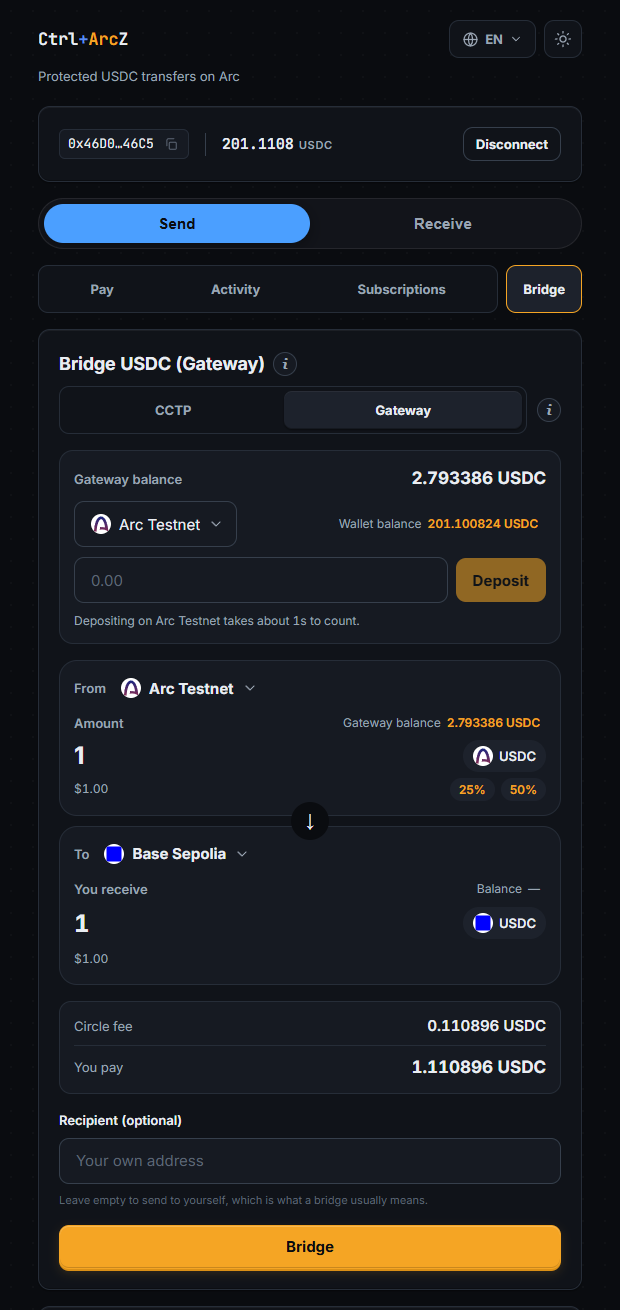
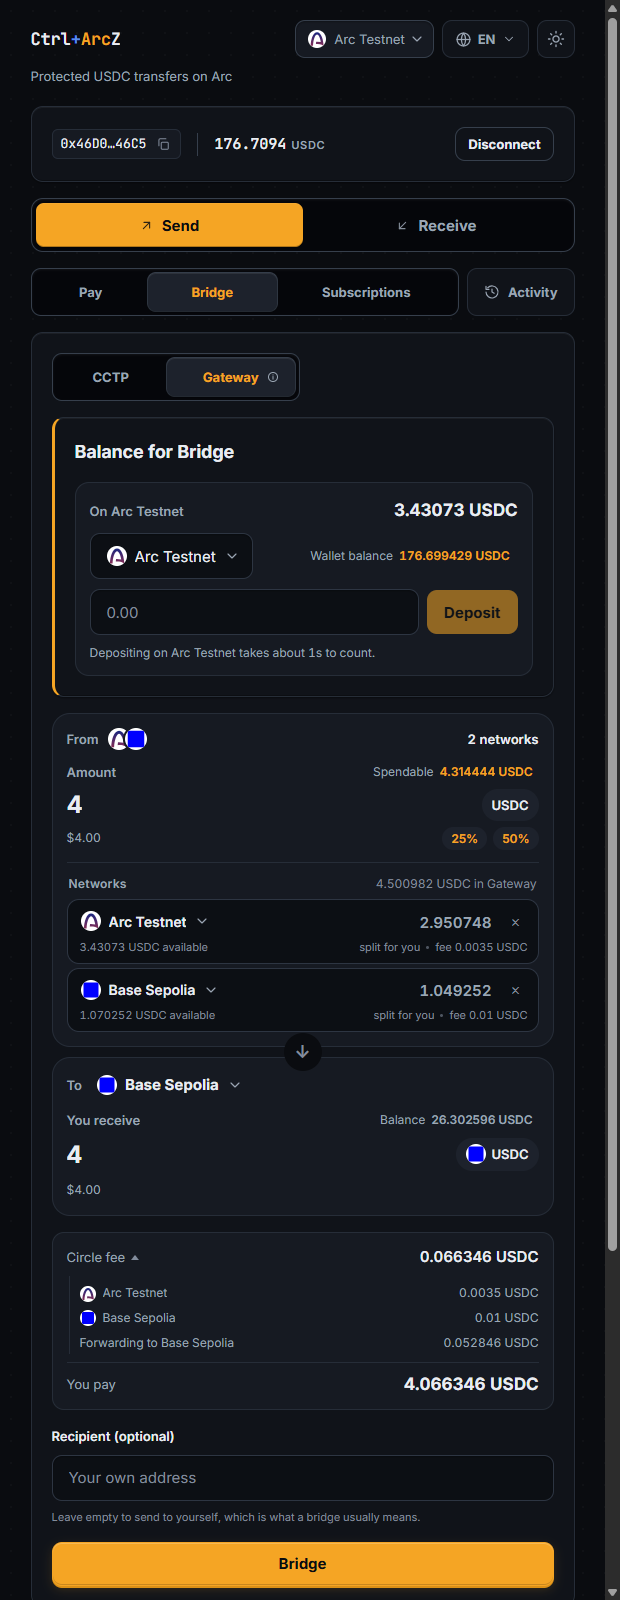
Say what the figures are counted in, and document the split
Every number in the network picker was bare. "3.068709 fee 0.0035" is two answers
to two different questions at the same weight with no unit on either, and a
per-chain fee is exactly where a reader expects to see the chain's gas token. It
is USDC, on every chain: Circle takes its fee out of the amount being sent rather
than out of gas, which is why a Gateway spend needs no gas anywhere and the
deposit is the only step that does. So the rows say USDC, the balance carries the
weight, and the fee steps back behind a hairline.

The README and the SDK guide never mentioned that a transfer can draw on more than
one chain, and their two Gateway screenshots predate the whole From block. Both
are replaced by shots of a real split: four USDC carried by two networks under one
signature, with the fee opened into what each network costs, and the picker
showing what is on every chain and what a leg there would cost.

The guide gains the allocate() path beside the single-chain shorthand, including
why its order is what it is and why fee and ceiling are two numbers rather than
one. Test counts in both READMEs were badly stale; they are measured now, at 850.

diff --git a/packages/demo-kit/src/ui/GatewaySources.tsx b/packages/demo-kit/src/ui/GatewaySources.tsx
@@ -181,7 +181,9 @@ export function GatewaySources({
       if (!r) return null;
       return (
         <>
-          <span>{usdc(r.balance)}</span>
+          <span className="chainrow__have">
+            {t('bridge.src.hasAmount', { amount: usdc(r.balance) })}
+          </span>
           <span className={`chainrow__tone chainrow__tone--${r.tone}`}>
             {r.room <= 0n
               ? t('bridge.src.tooSmall')
@@ -208,8 +210,27 @@ export function GatewaySources({
     const held = balanceOf(chain);
     return (
       <>
-        <span>{loaded ? usdc(held) : ''}</span>
-        <span className={feeOf(chain) >= COSTLY_BASE_FEE ? 'chainrow__fee--costly' : undefined}>
+        {/* What is there, and what a leg on it costs. Both name their unit and
+            they are separated, because side by side and unlabelled they read as
+            one number followed by another number: "3.068709 fee 0.0035" is two
+            answers to two different questions wearing the same clothes.
+
+            The fee is USDC on every chain, not the chain's own gas token: Circle
+            takes it out of the amount being sent, which is why a Gateway spend
+            needs no gas anywhere. Saying "USDC" is therefore a fact and not a
+            guess -- and the one worth stating, since a per-chain fee is exactly
+            where a reader would expect to see ETH. */}
+        <span className="chainrow__have">
+          {loaded ? t('bridge.src.hasAmount', { amount: usdc(held) }) : ''}
+        </span>
+        <span
+          className={[
+            'chainrow__fee',
+            feeOf(chain) >= COSTLY_BASE_FEE && 'chainrow__fee--costly',
+          ]
+            .filter(Boolean)
+            .join(' ')}
+        >
           {t('bridge.src.legFee', { fee: usdc(feeOf(chain)) })}
         </span>
       </>

diff --git a/packages/demo-kit/src/ui/components.css b/packages/demo-kit/src/ui/components.css
@@ -1097,10 +1097,32 @@
 .chainrow__meta {
   display: inline-flex;
   align-items: center;
-  gap: 8px;
+  gap: 10px;
   font-size: var(--fs-sm);
   color: var(--text-mid);
   white-space: nowrap;
+}
+/* Two answers to two questions, so they are told apart before they are read.
+
+   Unseparated and at one weight they ran together as a single string -- "3.068709
+   fee 0.0035" reads as one number trailing another, and neither said what it was
+   counted in. The balance is what the row is about, so it carries the weight and
+   the brighter tier; the fee is a consequence of picking it, so it steps back and
+   is fenced off by a hairline. */
+.chainrow__have {
+  color: var(--text-hi);
+  font-variant-numeric: tabular-nums;
+}
+.chainrow__fee,
+.chainrow__tone {
+  padding-left: 10px;
+  border-left: 1px solid var(--border-subtle);
+  font-size: var(--fs-xs);
+  font-variant-numeric: tabular-nums;
+}
+/* A disabled row is quiet all the way through, including the figures. */
+.menu__item:disabled .chainrow__have {
+  color: var(--text-mid);
 }
 /* A token that exists and cannot be picked. Muted rather than hidden, and the
    reason sits where its balance would have been. */

diff --git a/packages/demo-kit/src/i18n/tr.ts b/packages/demo-kit/src/i18n/tr.ts
@@ -296,8 +296,9 @@ export const tr: Record<TranslationKey, string> = {
   'bridge.src.spendable': 'Gönderilebilir',
   'bridge.src.count': '{n} ağ',
   'bridge.src.heldOn': "Gateway'de {amount} USDC",
-  'bridge.src.ready': '{amount} var',
-  'bridge.src.legFee': 'ücret {fee}',
+  'bridge.src.ready': '{amount} USDC var',
+  'bridge.src.legFee': 'ücret {fee} USDC',
+  'bridge.src.hasAmount': '{amount} USDC',
   'bridge.src.auto': 'senin için bölündü',
   'bridge.src.pinned': 'senin girdiğin',
   'bridge.src.legAria': '{chain} ağından gidecek tutar',
@@ -305,7 +306,7 @@ export const tr: Record<TranslationKey, string> = {
   'bridge.src.overfill': 'Ağların toplamı gönderdiğinden {amount} USDC fazla.',
   'bridge.src.costlyNote': 'Bacaklardan biri Ethereum üzerinden, tek başına yaklaşık 1 USDC ücret.',
   'bridge.src.add': 'Ağ ekle',
-  'bridge.src.totalFee': 'toplam ücret {fee}',
+  'bridge.src.totalFee': 'toplam ücret {fee} USDC',
   'bridge.src.stillShort': '{amount} eksik kalır',
   'bridge.src.tooSmall': 'kullanmak için çok az',
   'bridge.src.cover': 'Kalan {amount} {chain} ağından',

diff --git a/packages/demo-kit/src/i18n/en.ts b/packages/demo-kit/src/i18n/en.ts
@@ -337,8 +337,9 @@ export const en = {
   'bridge.src.spendable': 'Spendable',
   'bridge.src.count': '{n} networks',
   'bridge.src.heldOn': '{amount} USDC in Gateway',
-  'bridge.src.ready': '{amount} available',
-  'bridge.src.legFee': 'fee {fee}',
+  'bridge.src.ready': '{amount} USDC available',
+  'bridge.src.legFee': 'fee {fee} USDC',
+  'bridge.src.hasAmount': '{amount} USDC',
   'bridge.src.auto': 'split for you',
   'bridge.src.pinned': 'set by you',
   'bridge.src.legAria': 'Amount from {chain}',
@@ -348,7 +349,7 @@ export const en = {
   'bridge.src.add': 'Add a network',
   // Beside each network in the add list. The fee is the whole transfer's, not this
   // network's share: what somebody is choosing between is two complete plans.
-  'bridge.src.totalFee': '{fee} total fee',
+  'bridge.src.totalFee': '{fee} USDC total fee',
   'bridge.src.stillShort': '{amount} short',
   'bridge.src.tooSmall': 'too small to use',
   'bridge.src.cover': 'Take the other {amount} from {chain}',

diff --git a/README.tr.md b/README.tr.md
@@ -2,7 +2,7 @@
 
 **İmzalanmadan taranır. Claim edilene kadar geri alınabilir. Cüzdanını vermeden tekrarlanır.**
 
-[![Demoyu izle](https://img.shields.io/badge/Demoyu_izle-FF0000?style=flat-square&logo=youtube&logoColor=white)](https://www.youtube.com/watch?v=fcgyqBUbkcg) [![Canlı uygulama](https://img.shields.io/badge/Canl%C4%B1-ctrlarcz.xyz-4b9fff?style=flat-square)](https://ctrlarcz.xyz) [![npm](https://img.shields.io/badge/npm-%40ctrl--arcz%2Fsdk-cb3837?style=flat-square&logo=npm&logoColor=white)](https://www.npmjs.com/package/@ctrl-arcz/sdk) [![Android uygulaması](https://img.shields.io/badge/Android_uygulamas%C4%B1-Google_Play-3ddc84?style=flat-square&logo=googleplay&logoColor=white)](https://play.google.com/store/apps/details?id=com.xyz.ctrlarcz) [![Android demosunu izle](https://img.shields.io/badge/Android_demosunu_izle-FF0000?style=flat-square&logo=youtube&logoColor=white)](https://www.youtube.com/watch?v=DnSkbgBZaM8) [![Dokümanlar](https://img.shields.io/badge/Dok%C3%BCmanlar-docs.ctrlarcz.xyz-8b93a1?style=flat-square)](https://docs.ctrlarcz.xyz) [![Arc Testnet](https://img.shields.io/badge/Arc_Testnet-5042002-2fbf71?style=flat-square)](https://testnet.arcscan.app/address/0x8dAb7148cdc31DAcad6d7e12161AA3DEDb572Dca) [![Testler](https://img.shields.io/badge/test-654_ge%C3%A7iyor-2fbf71?style=flat-square)](#teknoloji) [![Emanet](https://img.shields.io/badge/emanet-yok-8b93a1?style=flat-square)](#g%C3%BCvenlik)
+[![Demoyu izle](https://img.shields.io/badge/Demoyu_izle-FF0000?style=flat-square&logo=youtube&logoColor=white)](https://www.youtube.com/watch?v=fcgyqBUbkcg) [![Canlı uygulama](https://img.shields.io/badge/Canl%C4%B1-ctrlarcz.xyz-4b9fff?style=flat-square)](https://ctrlarcz.xyz) [![npm](https://img.shields.io/badge/npm-%40ctrl--arcz%2Fsdk-cb3837?style=flat-square&logo=npm&logoColor=white)](https://www.npmjs.com/package/@ctrl-arcz/sdk) [![Android uygulaması](https://img.shields.io/badge/Android_uygulamas%C4%B1-Google_Play-3ddc84?style=flat-square&logo=googleplay&logoColor=white)](https://play.google.com/store/apps/details?id=com.xyz.ctrlarcz) [![Android demosunu izle](https://img.shields.io/badge/Android_demosunu_izle-FF0000?style=flat-square&logo=youtube&logoColor=white)](https://www.youtube.com/watch?v=DnSkbgBZaM8) [![Dokümanlar](https://img.shields.io/badge/Dok%C3%BCmanlar-docs.ctrlarcz.xyz-8b93a1?style=flat-square)](https://docs.ctrlarcz.xyz) [![Arc Testnet](https://img.shields.io/badge/Arc_Testnet-5042002-2fbf71?style=flat-square)](https://testnet.arcscan.app/address/0x8dAb7148cdc31DAcad6d7e12161AA3DEDb572Dca) [![Testler](https://img.shields.io/badge/test-850_ge%C3%A7iyor-2fbf71?style=flat-square)](#teknoloji) [![Emanet](https://img.shields.io/badge/emanet-yok-8b93a1?style=flat-square)](#g%C3%BCvenlik)
 
 Arc üzerinde USDC ödemeleri, düz bir transferde olmayan üç şeyle: hiçbir şey imzalanmadan kötü alıcıyı reddeden bir firewall, alıcı paranın kendisine ait olduğunu kanıtlayana kadar gönderenin geri alabildiği bir kilit ve bir satıcının ya da bir ajanın cüzdanınıza hiç dokunmadan tekrar tekrar çekim yapabildiği sınırlı bir harcama kutusu. Tek SDK, tek kontrat, custody yok.
 
@@ -44,7 +44,7 @@ npm install @ctrl-arcz/sdk viem
 | **Koruma**  | Gönderim öncesi risk firewall'u, kodla claim, gönderen iptali, süre dolunca otomatik iade       |
 | **Custody** | Yok. Para ya kullanıcıda ya kontratta. Owner yok, pause yok, upgrade yolu yok                   |
 | **Ürün**    | Herhangi bir cüzdanın, borsanın veya ödeme uygulamasının gömdüğü bir SDK. Yeni bir cüzdan değil |
-| **Testler** | Toplam 654: 114 Foundry, 365 SDK, 86 demo-kit, 56 api, 33 keeper, artı canlı testnet koşuları |
+| **Testler** | Toplam 850: 124 Foundry, 439 SDK, 186 demo-kit, 57 api, 33 keeper, 11 sender, artı canlı testnet koşuları |
 
 ## Web ve Android: iki istemci
 
@@ -325,6 +325,7 @@ Korumalı transfer için Arc'ta USDC gerekir. Circle'ın iki zincirler arası yo
 | Tekrarlı transferler | Her seferinde yaklaşık bir dakika | Saniyeler, yatırma yok                              |
 | En uygun             | Tek seferlik taşıma               | Sık gönderim                                        |
 | Testnet zinciri      | 20                                | 11                                                  |
+| Transfer başına kaynak | Tek zincir                      | 16'ya kadar, tek imzayla                            |
 | Hedefte gas          | Gerekmez, mint'i Circle iletir    | Gerekmez, mint'i Circle iletir                      |
 
 ```mermaid
@@ -340,16 +341,24 @@ flowchart LR
 
 Gateway'in tüm maliyeti yatırmada ve bu maliyet zincirden zincire uçurum kadar farklı: Arc'ta yatırma yaklaşık bir saniyede sayılıyor, Base'ten yapılan yatırma Circle'ın kendi onay sayılarına göre on dokuz dakikaya kadar çıkabiliyor. Uygulama, siz taahhüt etmeden önce hangisi olduğunu söylüyor ve bakiyeniz zaten uygun bir zincirdeyse ucuz olanı öneriyor. Ondan sonrası her zincirden aynı: birkaç saniye, cüzdanınızın hiç işlem yapmadığı bir zincirden bile.
 
-Gateway, CCTP'den daha az zincir destekler; bu yüzden ona geçtiğinizde seçiciler kendini daraltır ve çalışamayacak bir rota önermez.
+Gateway, CCTP'den daha az zincir destekler; bu yüzden ona geçtiğinizde seçiciler kendini daraltır ve çalışamayacak bir rota önermez. Uygulamadaki her seçici böyle çalışır: hangi iş için olduğunu bilir ve yalnızca o işi yapabilen ağları sunar, dolayısıyla çıkmaza götürecek bir zincir listede hiç görünmez.
+
+### Tek transfer, birden çok ağ
+
+Gateway bakiyesi birkaç zincire yayılmış tek bir rakamdır, ama transfer onu zincir zincir harcar: her burn niyeti tek bir kaynak adı taşır ve yalnızca oraya yatırılanı çeker. Toplamda yeterli parası olan bir cüzdan yine de ödeyemeyebilir. Circle tek istekte 16 niyete kadar kabul ediyor ve EVM bunları birlikte imzalayabiliyor; böylece bir transfer aynı anda birkaç ağdan çekebiliyor ve kullanıcı yine tek imza atıyor.
+
+Bölme işi kullanıcının değil, uygulamanın. Göndereceğiniz tutarı yazın, altındaki ağlar hangisinin ne taşıdığını söyler; bir ağ eklerseniz ödeme onun etrafında yeniden bölünür, ya da bir satıra rakam yazıp o zinciri sabitler, gerisini kendi girdiğiniz sayının etrafında bırakırsınız. Hangi ağın ekleneceği de tahmin değil. Her aday, eklenmesi hâlinde ortaya çıkacak bölünme çalıştırılarak fiyatlanır; çünkü işe yarayan sıralama bacak başına en ucuz olan değildir: ucuz ama az bakiyeli bir zincir üçüncü bir bacağı zorunlu kılar ve işi iki bacakta bitiren daha pahalı bir zincirden pahalıya gelir.
+
+Buradaki bütün rakamlar USDC, ücretler dahil. Circle ücreti zincirin kendi gas token'ından değil, gönderilen tutarın içinden alır; Gateway harcamasının hiçbir zincirde gas'a ihtiyaç duymamasının ve gas gerektiren tek adımın yatırma olmasının sebebi budur.
 
 <table>
 <tr>
-<td width="50%"><img src="docs/screens/12-bridge-gateway.png" alt="Gateway seçili köprü sekmesi"></td>
-<td width="50%"><img src="docs/screens/13-gateway-chains.png" alt="Gateway zincir seçici"></td>
+<td width="50%"><img src="docs/screens/12-bridge-gateway.png" alt="İki ağdan çeken bir Gateway transferi, ücret ağ ağ açılmış"></td>
+<td width="50%"><img src="docs/screens/13-gateway-chains.png" alt="Gateway ağ seçici, her zincirde bakiye ve bacak ücreti"></td>
 </tr>
 <tr>
-<td>Gateway seçili. Adım listesi rotaya göre değişir.</td>
-<td>Yalnız Gateway'in gerçekten desteklediği zincirler; aranabilir, gerçek ağ logolarıyla.</td>
+<td>Tek imzayla iki ağın taşıdığı dört USDC; ücret, hangi ağın ne kadarını götürdüğüne açılmış hâlde.</td>
+<td>Gateway'in hizmet verdiği bütün ağlar; üzerinde ne olduğu ve orada bir bacağın ne tuttuğuyla. Kendi ücretini karşılayamayan zincir gizlenmez, gösterilir ve seçtirilmez.</td>
 </tr>
 </table>
 
@@ -387,7 +396,7 @@ Deploy bloğu `51326557`. Buradaki her şey Arc Testnet. Mainnet, denetimden son
 | `reclaimExpired(id)`                        | Herkes          | Süresi dolan transferi iade eder. Yalnızca gönderene  |
 | `isVerifiedRecipient(gönderen, alıcı)`      | Herkes          | Katman 3, firewall tarafından okunur                  |
 
-Kontrat **sahipsizdir**: owner yok, pause yok, proxy yok, upgrade yolu yok, kilitli bir transfere dokunabilecek admin fonksiyonu yok. Admin'in drenajlayabildiği bir korumalı transfer kontratı kimseyi korumaz. Bu kontrat için 63, tüm kontrat paketinde 114 Foundry testi var; içinde değer korunumu, fee bölüşümü, iptal ve geçerli bir kanıtın yalnızca kayıtlı alıcıya ödeme yaptığı özelliği için fuzz testleri de bulunuyor. Bütün kontratlarda kapsam satır, ifade, dal ve fonksiyon olarak yüzde 100; tabloyu `pnpm --filter @ctrl-arcz/contracts coverage` basıyor.
+Kontrat **sahipsizdir**: owner yok, pause yok, proxy yok, upgrade yolu yok, kilitli bir transfere dokunabilecek admin fonksiyonu yok. Admin'in drenajlayabildiği bir korumalı transfer kontratı kimseyi korumaz. Bu kontrat için 63, tüm kontrat paketinde 124 Foundry testi var; içinde değer korunumu, fee bölüşümü, iptal ve geçerli bir kanıtın yalnızca kayıtlı alıcıya ödeme yaptığı özelliği için fuzz testleri de bulunuyor. Bütün kontratlarda kapsam satır, ifade, dal ve fonksiyon olarak yüzde 100; tabloyu `pnpm --filter @ctrl-arcz/contracts coverage` basıyor.
 
 ## Güvenlik
 

diff --git a/README.md b/README.md
@@ -2,7 +2,7 @@
 
 **Screened before it is signed. Recallable until it is claimed. Repeatable without handing over your wallet.**
 
-[![Watch the demo](https://img.shields.io/badge/Watch_the_demo-FF0000?style=flat-square&logo=youtube&logoColor=white)](https://www.youtube.com/watch?v=fcgyqBUbkcg) [![Live app](https://img.shields.io/badge/Live-ctrlarcz.xyz-4b9fff?style=flat-square)](https://ctrlarcz.xyz) [![npm](https://img.shields.io/badge/npm-%40ctrl--arcz%2Fsdk-cb3837?style=flat-square&logo=npm&logoColor=white)](https://www.npmjs.com/package/@ctrl-arcz/sdk) [![Android app](https://img.shields.io/badge/Android_app-Google_Play-3ddc84?style=flat-square&logo=googleplay&logoColor=white)](https://play.google.com/store/apps/details?id=com.xyz.ctrlarcz) [![Watch the Android demo](https://img.shields.io/badge/Watch_the_Android_demo-FF0000?style=flat-square&logo=youtube&logoColor=white)](https://www.youtube.com/watch?v=DnSkbgBZaM8) [![Docs](https://img.shields.io/badge/Docs-docs.ctrlarcz.xyz-8b93a1?style=flat-square)](https://docs.ctrlarcz.xyz) [![Arc Testnet](https://img.shields.io/badge/Arc_Testnet-5042002-2fbf71?style=flat-square)](https://testnet.arcscan.app/address/0x8dAb7148cdc31DAcad6d7e12161AA3DEDb572Dca) [![Tests](https://img.shields.io/badge/tests-747_passing-2fbf71?style=flat-square)](#tech-stack) [![Custody](https://img.shields.io/badge/custody-none-8b93a1?style=flat-square)](#security)
+[![Watch the demo](https://img.shields.io/badge/Watch_the_demo-FF0000?style=flat-square&logo=youtube&logoColor=white)](https://www.youtube.com/watch?v=fcgyqBUbkcg) [![Live app](https://img.shields.io/badge/Live-ctrlarcz.xyz-4b9fff?style=flat-square)](https://ctrlarcz.xyz) [![npm](https://img.shields.io/badge/npm-%40ctrl--arcz%2Fsdk-cb3837?style=flat-square&logo=npm&logoColor=white)](https://www.npmjs.com/package/@ctrl-arcz/sdk) [![Android app](https://img.shields.io/badge/Android_app-Google_Play-3ddc84?style=flat-square&logo=googleplay&logoColor=white)](https://play.google.com/store/apps/details?id=com.xyz.ctrlarcz) [![Watch the Android demo](https://img.shields.io/badge/Watch_the_Android_demo-FF0000?style=flat-square&logo=youtube&logoColor=white)](https://www.youtube.com/watch?v=DnSkbgBZaM8) [![Docs](https://img.shields.io/badge/Docs-docs.ctrlarcz.xyz-8b93a1?style=flat-square)](https://docs.ctrlarcz.xyz) [![Arc Testnet](https://img.shields.io/badge/Arc_Testnet-5042002-2fbf71?style=flat-square)](https://testnet.arcscan.app/address/0x8dAb7148cdc31DAcad6d7e12161AA3DEDb572Dca) [![Tests](https://img.shields.io/badge/tests-850_passing-2fbf71?style=flat-square)](#tech-stack) [![Custody](https://img.shields.io/badge/custody-none-8b93a1?style=flat-square)](#security)
 
 USDC payments on Arc with the three things a plain transfer does not have: a firewall that refuses a bad recipient before anything is signed, a lock the sender can undo until the recipient proves the money was meant for them, and a bounded spend box that lets a merchant or an agent charge you again without ever touching your wallet. One SDK, one contract, no custody.
 
@@ -44,7 +44,7 @@ npm install @ctrl-arcz/sdk viem
 | **Protection** | Pre-send risk firewall, code-gated claim, sender cancel, automatic expiry refund                                                                   |
 | **Custody**    | None. Funds are with the user or in the contract. No owner, no pause, no upgrade path                                                              |
 | **Product**    | An SDK any wallet, exchange or payments app embeds. Not another wallet                                                                             |
-| **Tests**      | 747 in total: 123 Foundry, 388 SDK, 146 demo-kit, 57 api, 33 keeper, plus live testnet runs                                                        |
+| **Tests**      | 850 in total: 124 Foundry, 439 SDK, 186 demo-kit, 57 api, 33 keeper, 11 sender, plus live testnet runs                                             |
 
 ## Two clients: web and Android
 
@@ -328,6 +328,7 @@ A protected transfer needs USDC on Arc. Both of Circle's cross-chain routes are 
 | Repeat transfers  | About a minute, every time                  | Seconds, no deposit                                     |
 | Best for          | A one-off move                              | Sending often                                           |
 | Chains on testnet | 20                                          | 11                                                      |
+| Sources per transfer | One chain                                | Up to 16, under one signature                           |
 | Destination gas   | None needed, Circle forwards the mint       | None needed, Circle forwards the mint                   |
 
 ```mermaid
@@ -343,16 +344,24 @@ flowchart LR
 
 The Gateway deposit is the whole cost of using it, and it is wildly uneven: a deposit on Arc counts in about a second, one from Base takes up to nineteen minutes by Circle's own confirmation counts. The app says which it is before you commit, and offers the cheaper source when your balance is already on one. After that, spending is the same few seconds from any chain, including one your wallet has never had a transaction on.
 
-Gateway supports fewer chains than CCTP, so the pickers narrow themselves when you switch to it rather than offering a route that cannot run.
+Gateway supports fewer chains than CCTP, so the pickers narrow themselves when you switch to it rather than offering a route that cannot run. Every picker in the app works that way: it is told what job it is for and offers only the networks that can do it, so a chain that would lead to a dead end is not on the list at all.
+
+### One transfer, several networks
+
+A Gateway balance is one figure spread over several chains, but a transfer spends it per chain: every burn intent names one source and draws only on what was deposited there. A wallet holding enough in total could still be unable to pay. Circle accepts up to 16 intents in one request and EVM signs them together, so a transfer can draw on several networks at once and the user still signs once.
+
+The division is the app's job, not the user's. Type what you are sending and the networks below say which carries what; add one and the payment re-divides around it, or type into a row to fix that chain and let the rest settle around your number. Which network to add is not a guess either. Each candidate is priced by running the split it would produce, because the useful order is not the cheapest per leg: a cheap chain holding too little forces a third leg and ends up dearer than one that costs more and finishes the job in two.
+
+Every figure here is USDC, fees included. Circle takes its fee out of the amount being sent rather than out of the chain's own gas token, which is why a Gateway spend needs no gas on any chain and the deposit is the only step that does.
 
 <table>
 <tr>
-<td width="50%"><img src="docs/screens/12-bridge-gateway.png" alt="The bridge tab with Gateway selected"></td>
-<td width="50%"><img src="docs/screens/13-gateway-chains.png" alt="The Gateway chain picker"></td>
+<td width="50%"><img src="docs/screens/12-bridge-gateway.png" alt="A Gateway transfer drawing on two networks, with the fee broken down per network"></td>
+<td width="50%"><img src="docs/screens/13-gateway-chains.png" alt="The Gateway network picker, showing the balance and the per-leg fee on each chain"></td>
 </tr>
 <tr>
-<td>Gateway selected. The step list changes with the route.</td>
-<td>Only the chains Gateway actually supports, searchable, with real network logos.</td>
+<td>Four USDC carried by two networks under one signature, with the fee opened into what each one costs.</td>
+<td>Every network Gateway serves, with what is on it and what a leg there costs. A chain that cannot cover its own fee is shown and refused rather than hidden.</td>
 </tr>
 </table>
 
@@ -390,7 +399,7 @@ Deploy block `51326557`. Everything here is Arc Testnet. Mainnet follows the aud
 | `reclaimExpired(id)`                        | Anyone      | Refund an expired transfer. Only ever to the sender              |
 | `isVerifiedRecipient(sender, recipient)`    | Anyone      | Layer 3, read by the firewall                                    |
 
-The contract is **ownerless**: no owner, no pause, no proxy, no upgrade path, no admin function that can touch a locked transfer. A protected-transfer contract that an admin can drain protects nobody. There are 63 Foundry tests on this contract alone and 114 across the contract suite, including fuzz tests for value conservation, the fee split, cancel, and the property that a valid proof only ever pays the recorded recipient. Coverage across every contract is 100 percent of lines, statements, branches and functions; `pnpm --filter @ctrl-arcz/contracts coverage` prints the table.
+The contract is **ownerless**: no owner, no pause, no proxy, no upgrade path, no admin function that can touch a locked transfer. A protected-transfer contract that an admin can drain protects nobody. There are 63 Foundry tests on this contract alone and 124 across the contract suite, including fuzz tests for value conservation, the fee split, cancel, and the property that a valid proof only ever pays the recorded recipient. Coverage across every contract is 100 percent of lines, statements, branches and functions; `pnpm --filter @ctrl-arcz/contracts coverage` prints the table.
 
 ## Security
 
